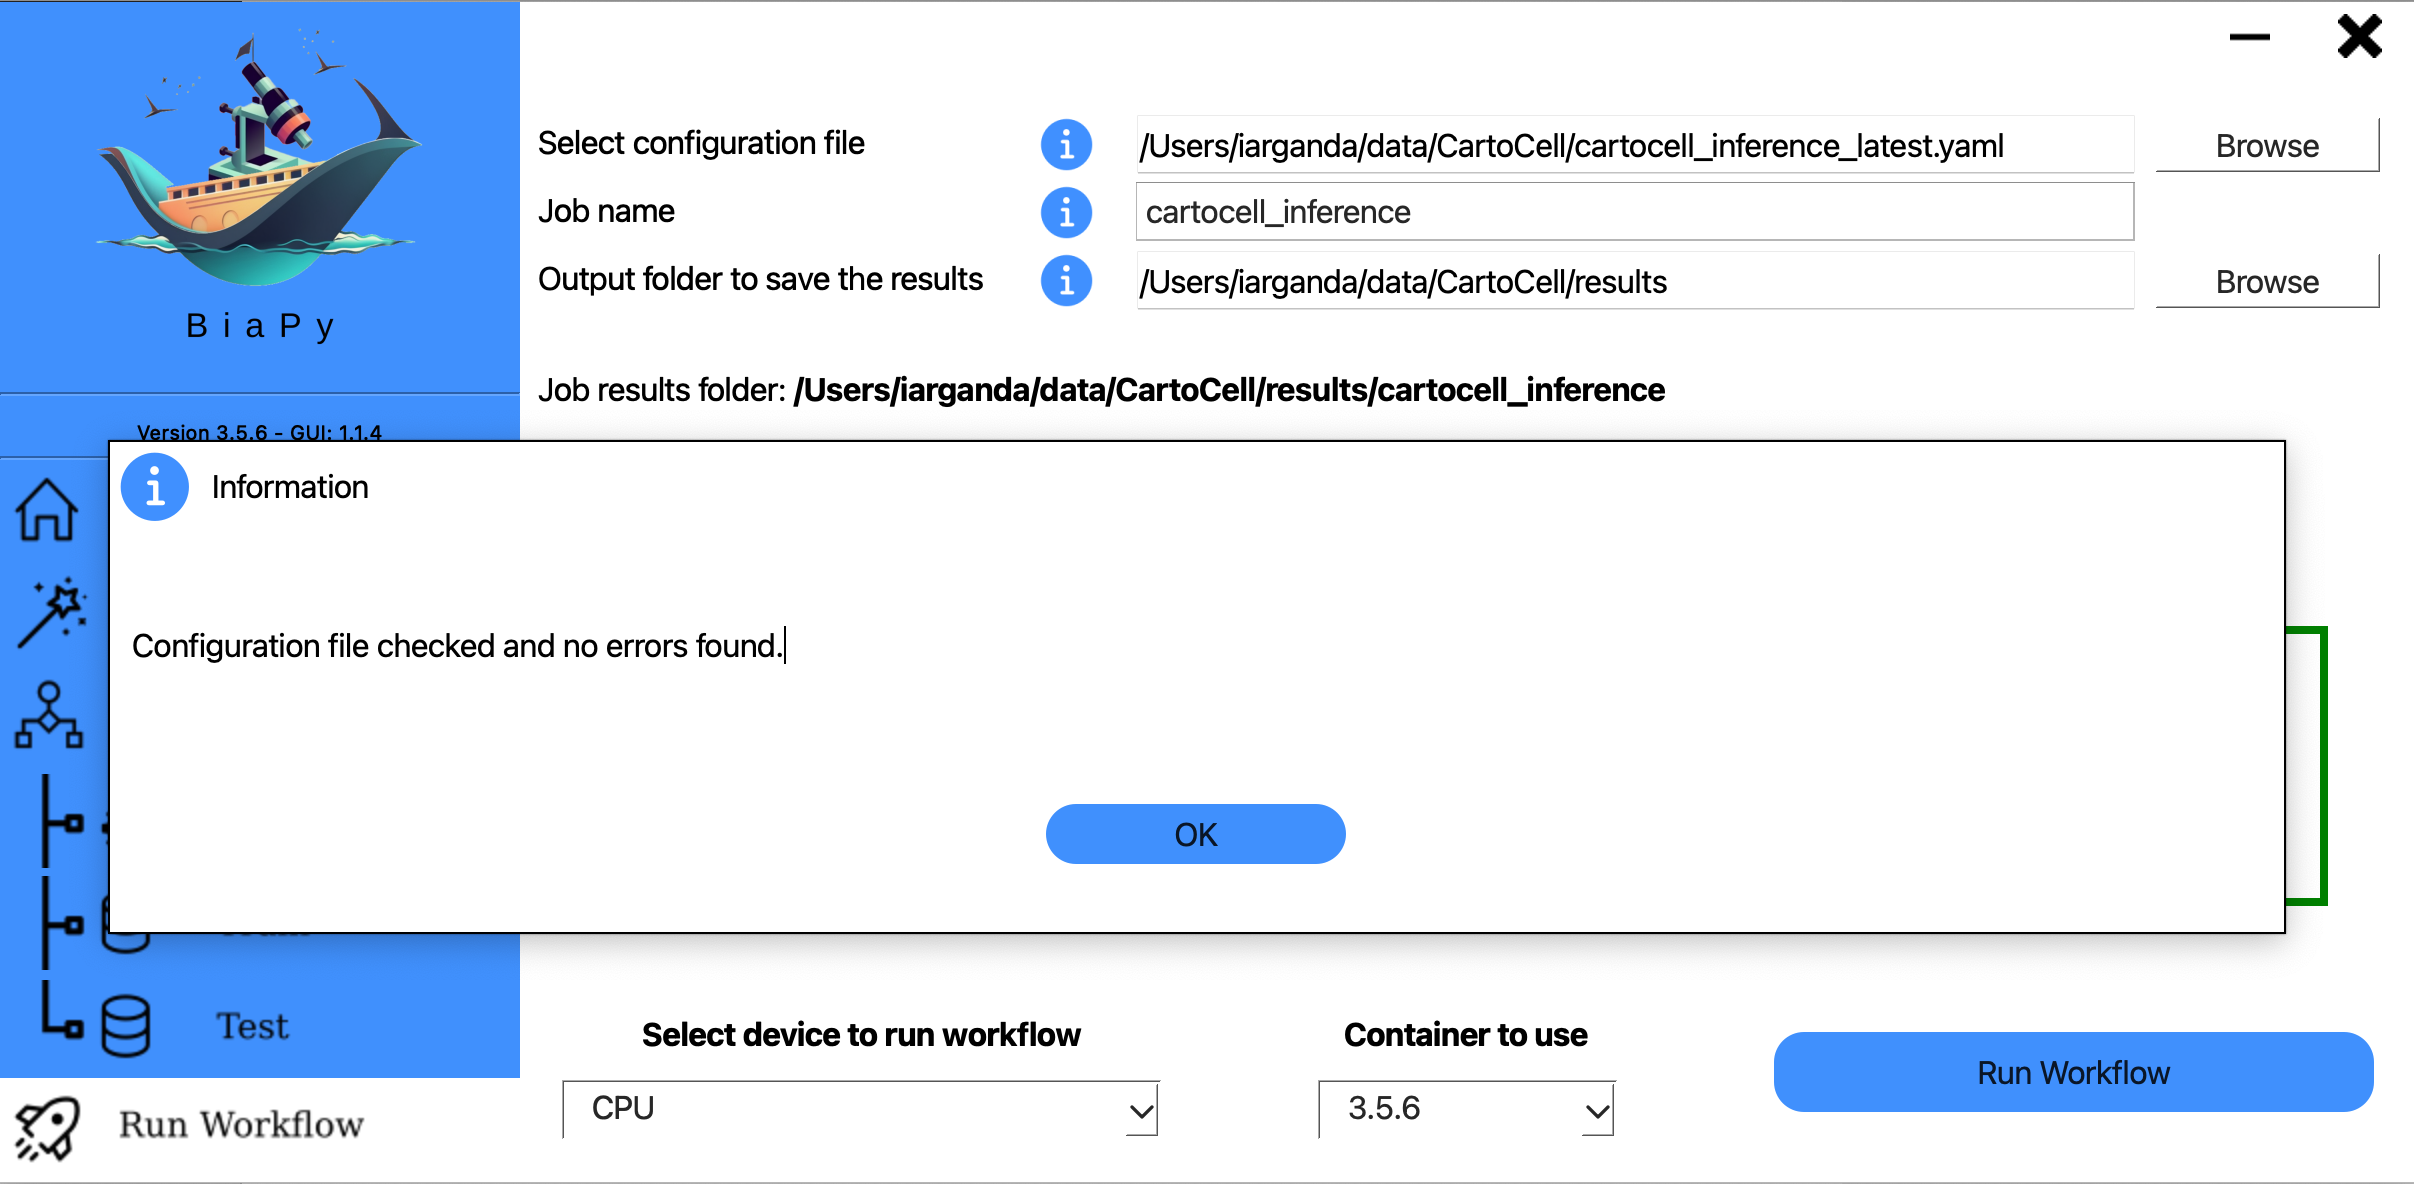
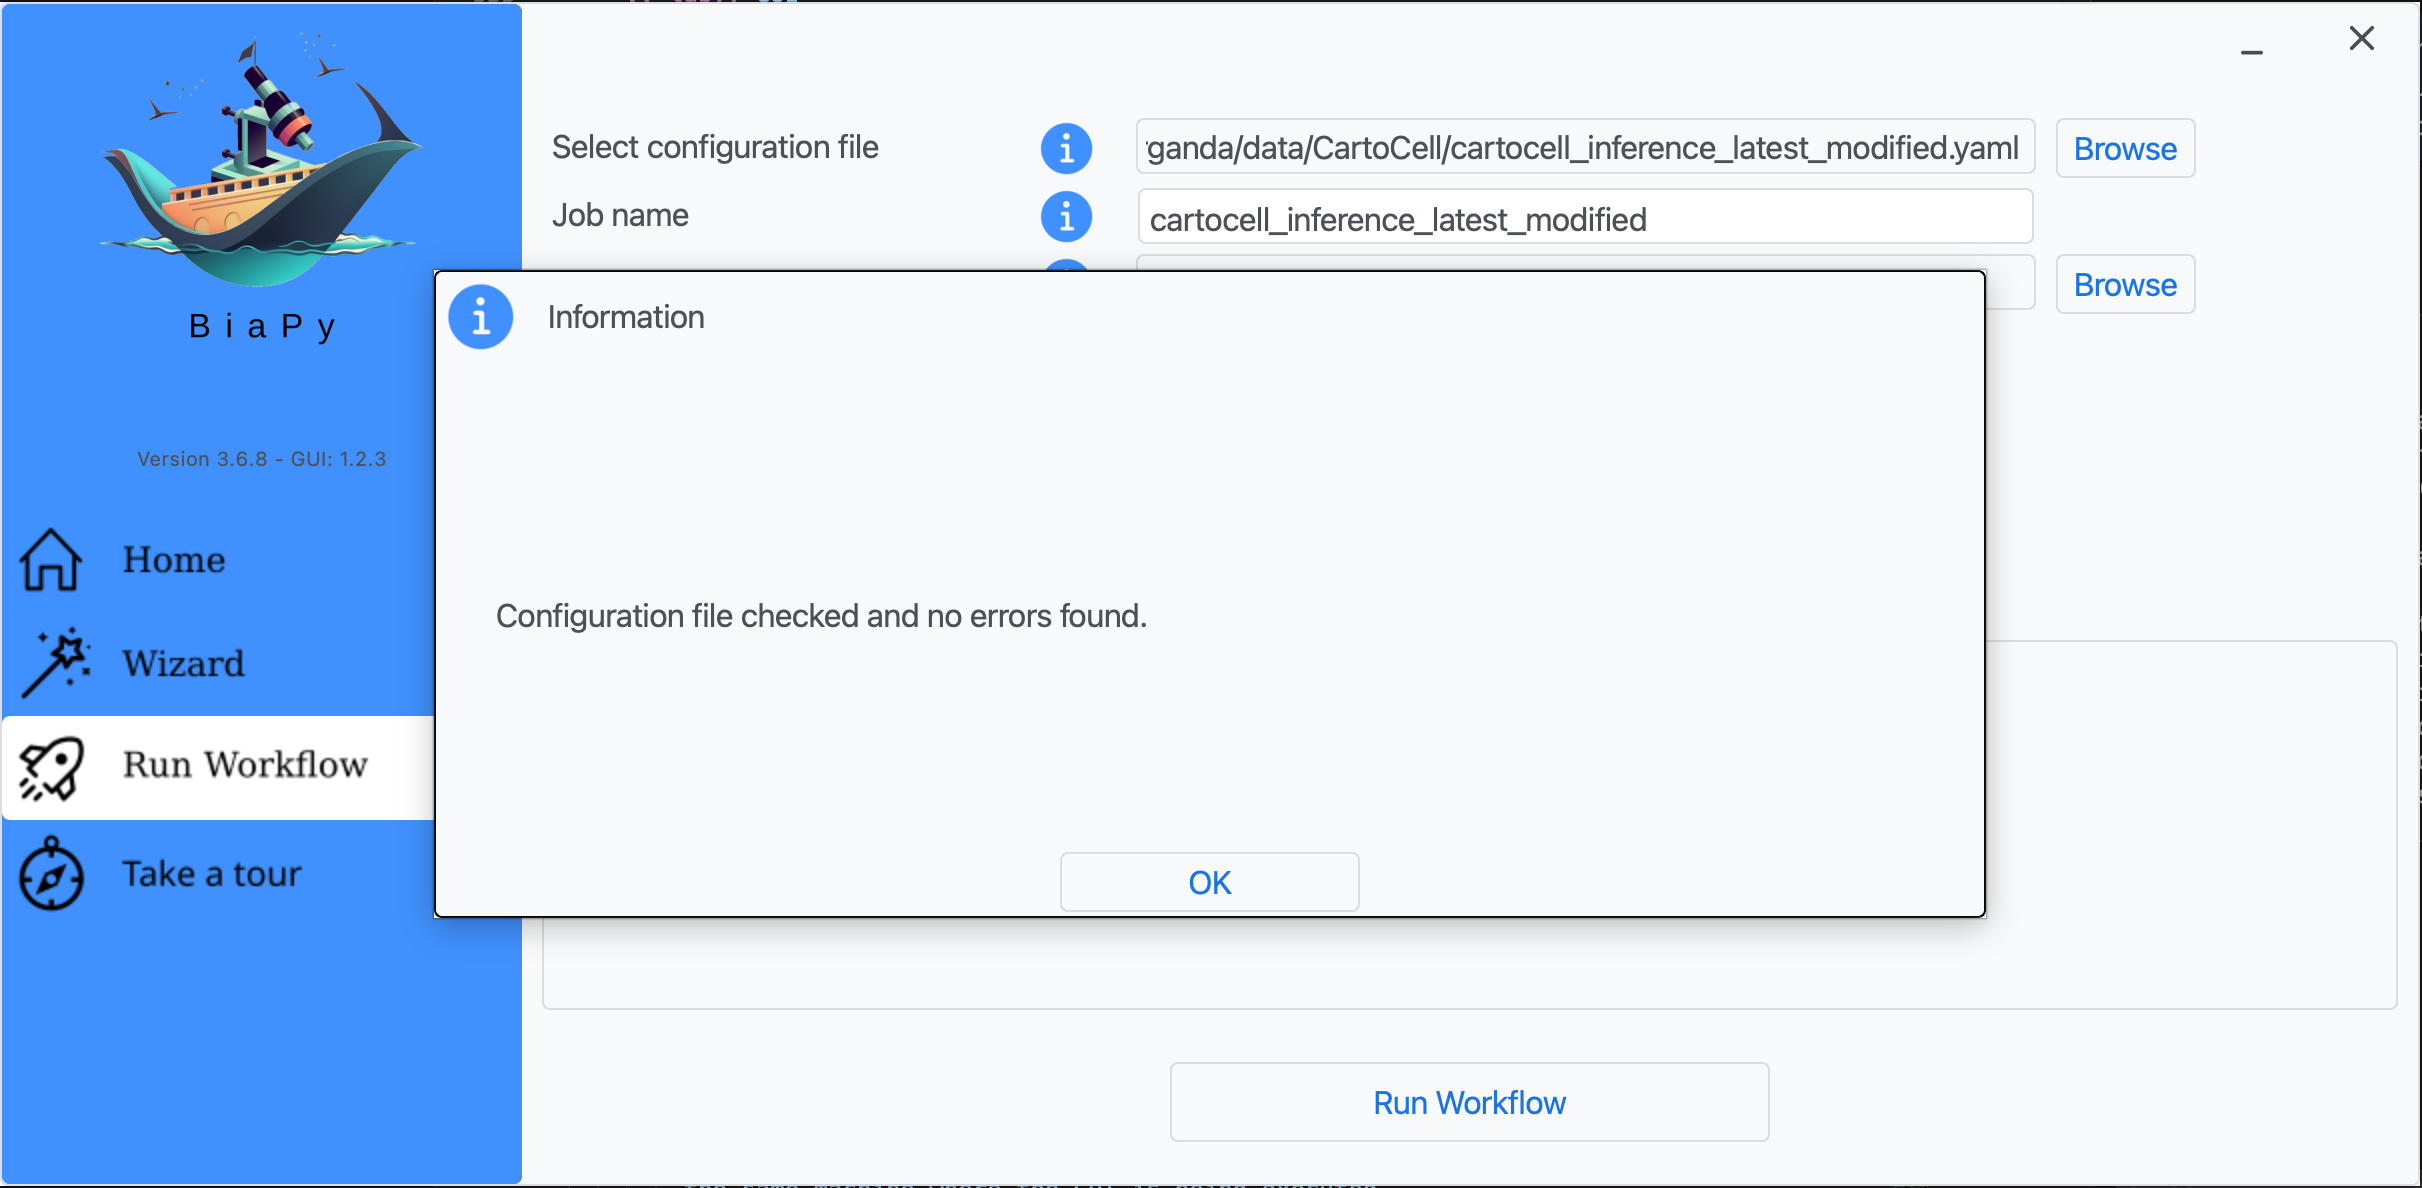
Update CartoCell tutorial's model testing with latest GUI.

diff --git a/source/tutorials/instance_seg/cartocell.rst b/source/tutorials/instance_seg/cartocell.rst
@@ -404,11 +404,11 @@ Model training
 
           .. figure:: ../../img/tutorials/instance-segmentation/cartocell/GUI-results-folder-and-job-name-train.png
 
-              Step 9: Input the folder you wish to use to store the results of the workflow by clicking on the "Browse" button of "Output folder to save the results" and type a name for your experiment in the "Job name" field.
+              Step 5: Input the folder you wish to use to store the results of the workflow by clicking on the "Browse" button of "Output folder to save the results" and type a name for your experiment in the "Job name" field.
               
           .. figure:: ../../img/tutorials/instance-segmentation/cartocell/GUI-no-errors-train.png
 
-              Step 10: Finally, click on "Check file" and, if a message is displayed showing no errors in the configuration file, click on "Run Workflow".
+              Step 6: Finally, click on "Check file" and, if a message is displayed showing no errors in the configuration file, click on "Run Workflow".
 
 
         \
@@ -553,41 +553,21 @@ Again, **BiaPy** offers different options to run the **CartoCell** testing (also
 
               Step 2: Click on "OK".
 
-          .. figure:: ../../img/tutorials/instance-segmentation/cartocell/GUI-instance-segmentation.png
+          .. figure:: ../../img/tutorials/instance-segmentation/cartocell/GUI-modify-configuration-file-inference.png
 
-              Step 3: Click on "Continue".
-
-          .. figure:: ../../img/tutorials/instance-segmentation/cartocell/GUI-generic-options-inference.png
-
-              Step 4: Under "Generic options", you should see the directory and name of the configuration file already selected. Click on the "Browse" button of "Model file" and select the .pth file you downloaded.
-
-          .. figure:: ../../img/tutorials/instance-segmentation/cartocell/GUI-checkpoint-configuration.png
-
-              Step 5: You should see the path to 'cartocell_M2-checkpoint-best.pth' in the "Model file" field. Click on "Continue".
-
-          .. figure:: ../../img/tutorials/instance-segmentation/cartocell/GUI-train-options-inference.png
-
-              Step 6: Under "Train", leave the "Perform training" option as "No", and click on "Continue".
-
-          .. figure:: ../../img/tutorials/instance-segmentation/cartocell/GUI-test-options-inference.png
-
-              Step 7:  Under "Test > Test data", input the paths to the test raw and (optionally) label images by clicking on the "Browse" buttons of "Input raw image folder" and "Input label folder" respectively, and click on "Create configuration file".
-
-          .. figure:: ../../img/tutorials/instance-segmentation/cartocell/GUI-overwrite-yaml-inference.png
-
-              Step 8: Click on "Yes" to overwrite the configuration file.
+              Step 3: Introduce the corresponding paths to your test data (for both raw and label images), the 'cartocell_M2-checkpoint-best.pth' in the "Model file" field and a name for your modified configuration file. Click on "Save file".
 
           .. figure:: ../../img/tutorials/instance-segmentation/cartocell/GUI-yaml-created-inference.png
 
-              Step 9: You should see an information window indicating the files has been created. Click on "OK".
+              Step 4: You should see an information window indicating the file has been created. Click on "OK".
 
           .. figure:: ../../img/tutorials/instance-segmentation/cartocell/GUI-results-folder-and-job-name-inference.png
 
-              Step 10: Input the folder you wish to use to store the results of the workflow by clicking on the "Browse" button of "Output folder to save the results" and type a name for your experiment in the "Job name" field.
+              Step 5: Input the folder you wish to use to store the results of the workflow by clicking on the "Browse" button of "Output folder to save the results" and type a name for your experiment in the "Job name" field.
               
-          .. figure:: ../../img/tutorials/instance-segmentation/cartocell/GUI-no-errors-inference.png
+          .. figure:: ../../img/tutorials/instance-segmentation/cartocell/GUI-no-errors-train.png
 
-              Step 11: Finally, click on "Check file" and, if a message is displayed showing no errors in the configuration file, click on "Run Workflow".
+              Step 6: Finally, click on "Check file" and, if a message is displayed showing no errors in the configuration file, click on "Run Workflow".
 
 
         \
